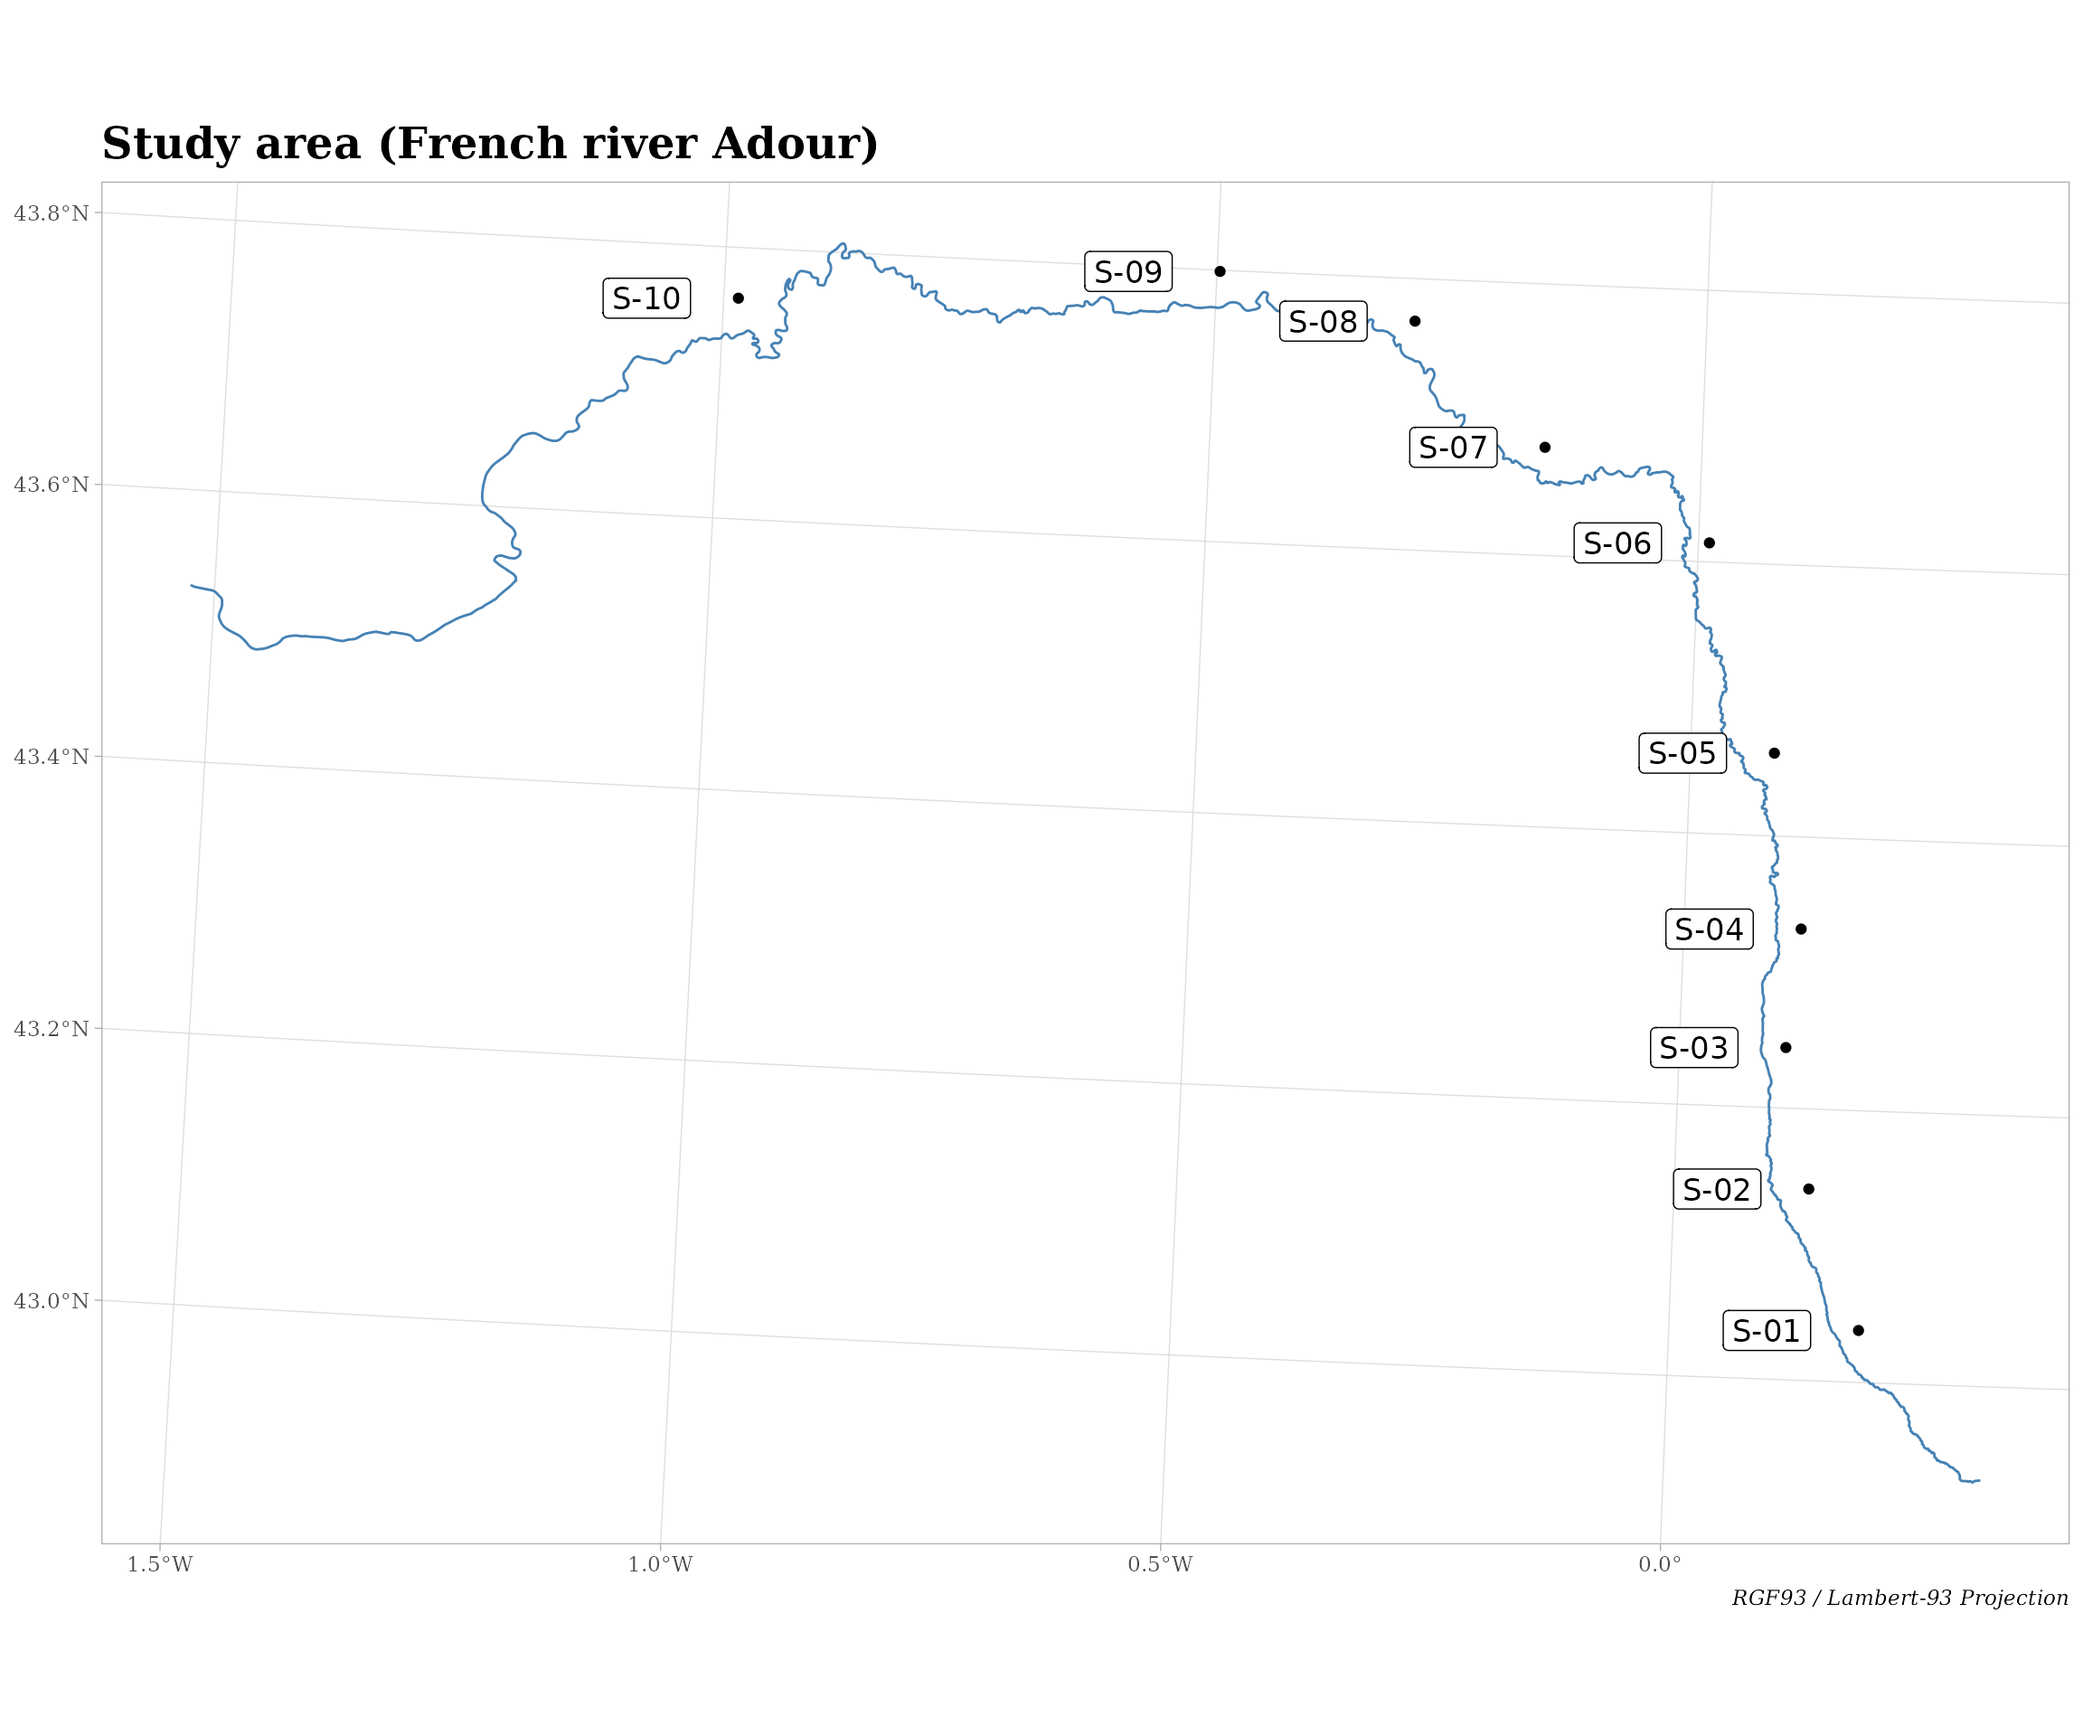
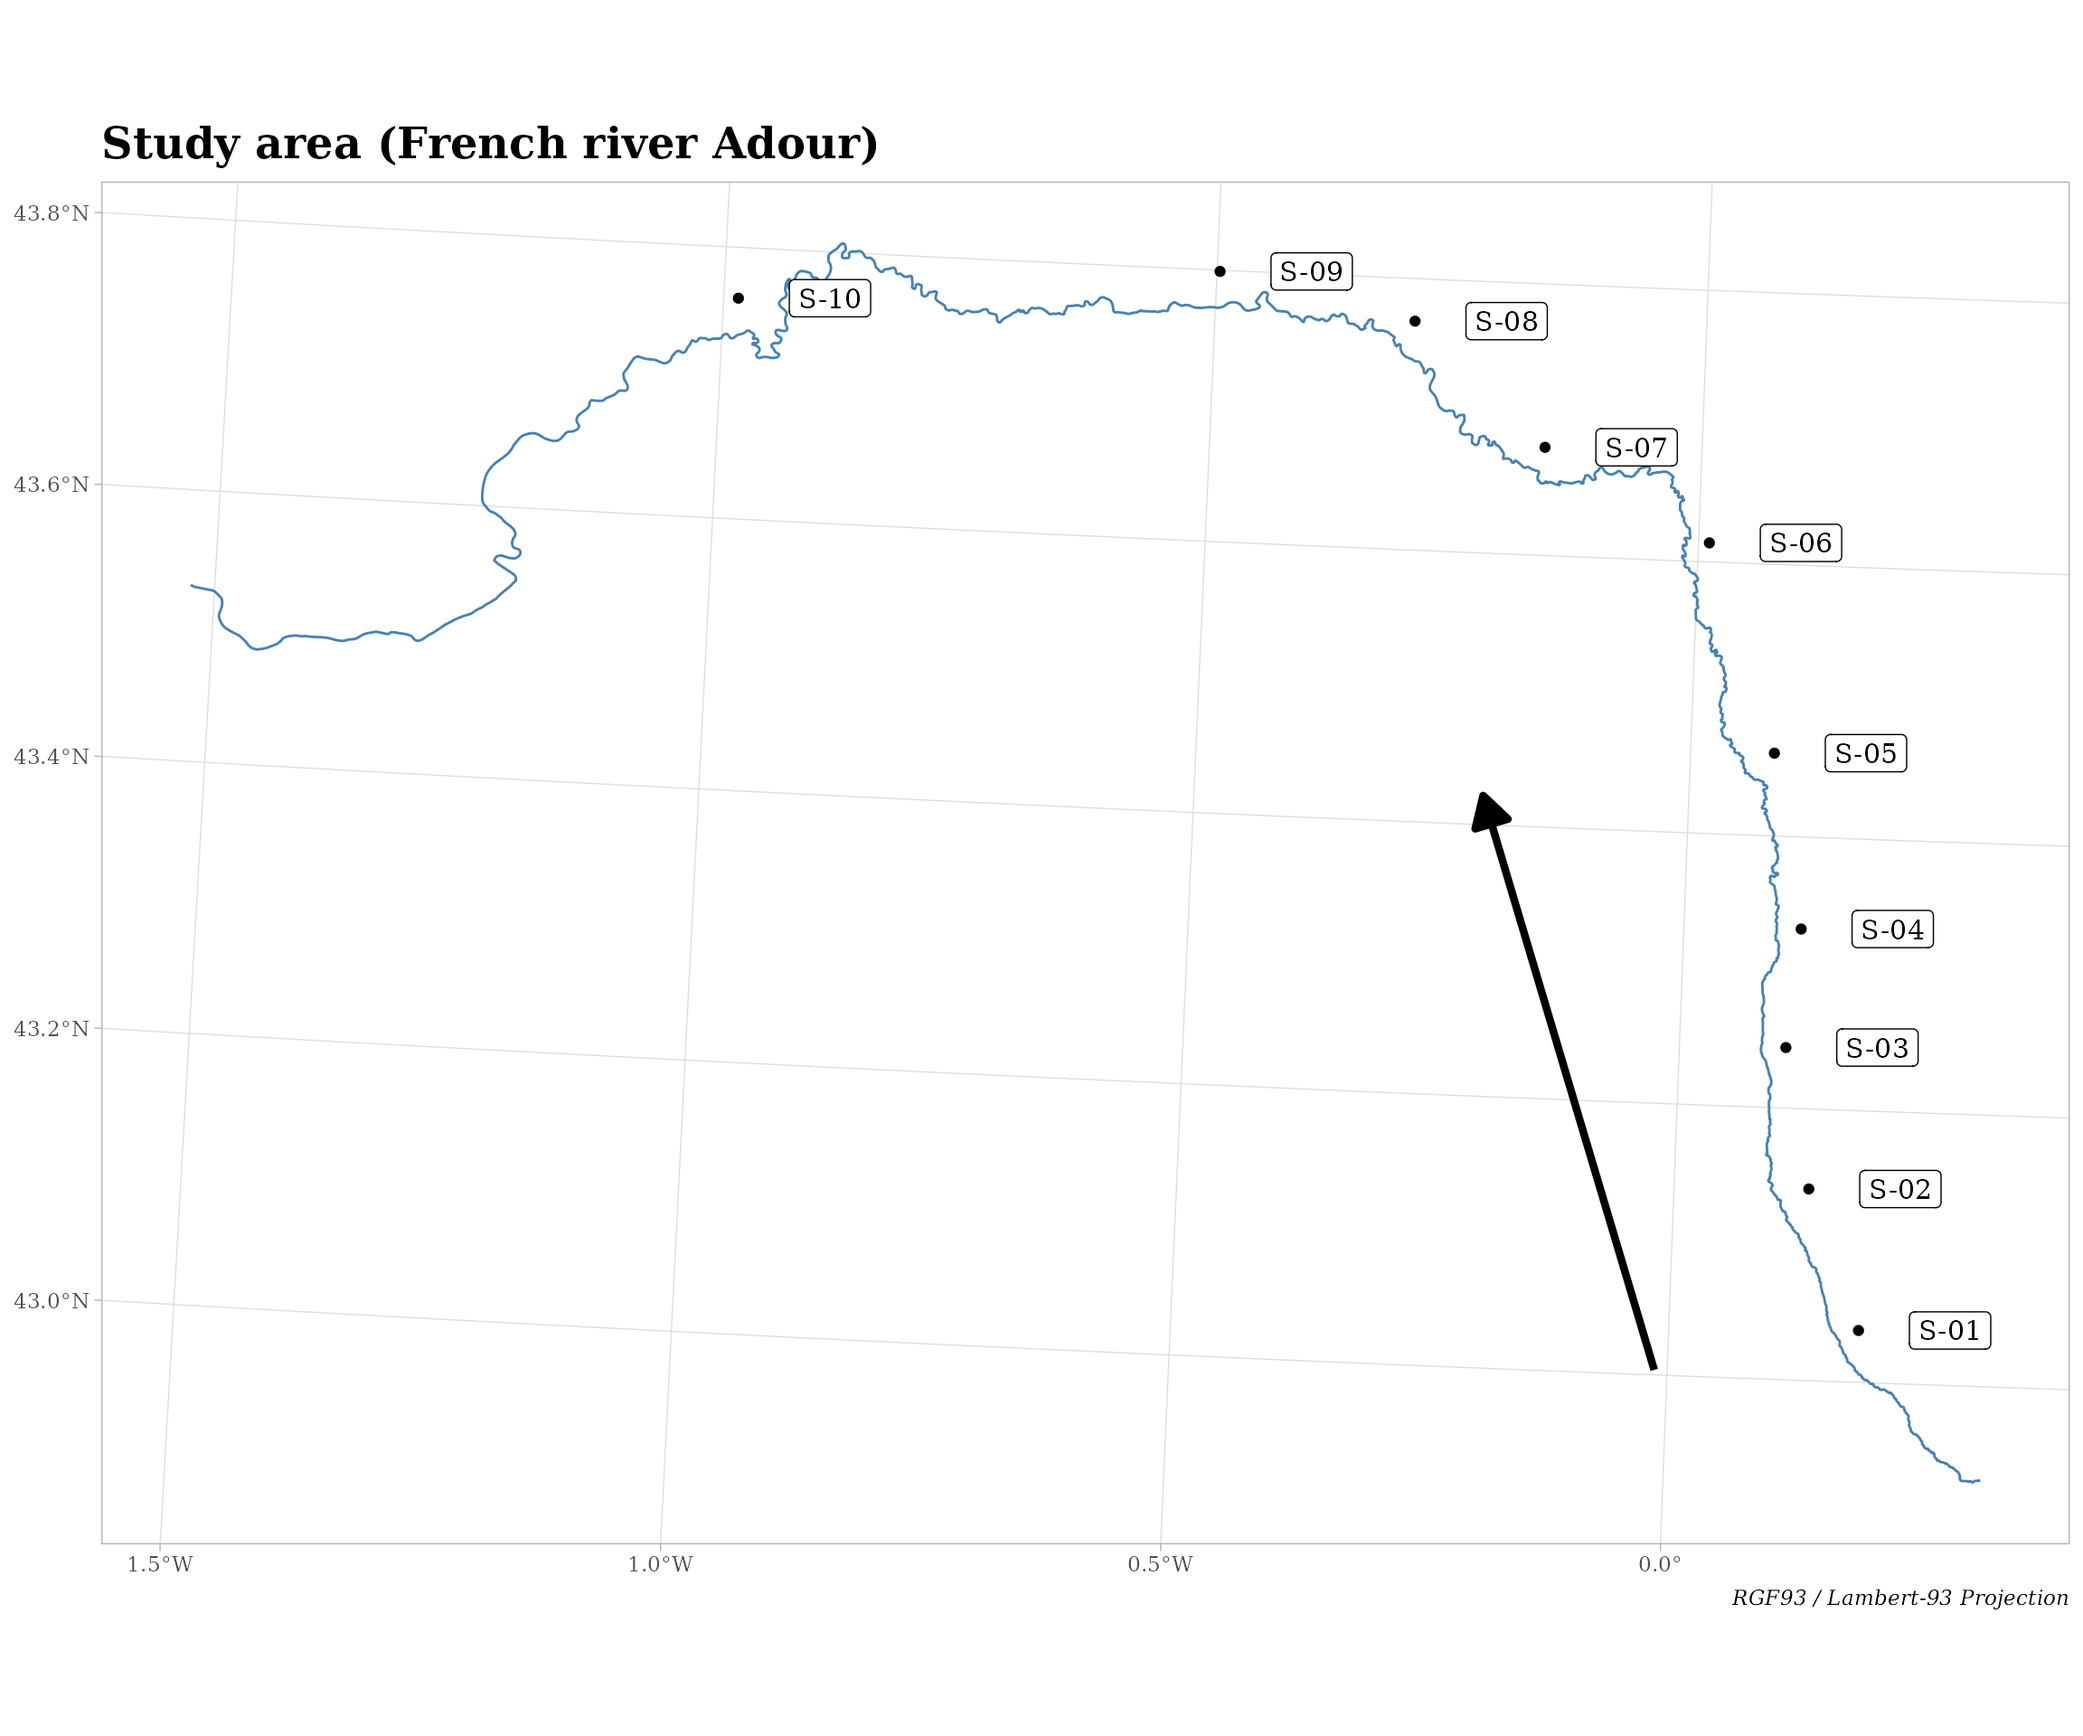
Built site for bridge: 0.0.0.9000@1e766ce

diff --git a/articles/bridge.html b/articles/bridge.html
@@ -138,9 +138,14 @@
 <p><br></p>
 <p>Let’s locate the Adour river of the France map.</p>
 <div class="sourceCode" id="cb5"><pre class="downlit sourceCode r">
-<code class="sourceCode R"><span><span class="fu"><a href="https://ggplot2.tidyverse.org/reference/ggplot.html" class="external-link">ggplot</a></span><span class="op">(</span>data <span class="op">=</span> <span class="va">france</span><span class="op">)</span> <span class="op">+</span></span>
+<code class="sourceCode R"><span><span class="co"># Get extent of Adour river ----</span></span>
+<span><span class="va">adour_extent</span> <span class="op">&lt;-</span> <span class="fu">sf</span><span class="fu">::</span><span class="fu"><a href="https://r-spatial.github.io/sf/reference/st_bbox.html" class="external-link">st_bbox</a></span><span class="op">(</span><span class="va">adour_river</span><span class="op">)</span></span>
+<span><span class="va">adour_extent</span> <span class="op">&lt;-</span> <span class="va">adour_extent</span> <span class="op">+</span> <span class="fu"><a href="https://rdrr.io/r/base/c.html" class="external-link">c</a></span><span class="op">(</span><span class="op">-</span><span class="fl">10000</span>, <span class="op">-</span><span class="fl">10000</span>, <span class="fl">10000</span>, <span class="fl">10000</span><span class="op">)</span></span>
+<span></span>
+<span><span class="fu"><a href="https://ggplot2.tidyverse.org/reference/ggplot.html" class="external-link">ggplot</a></span><span class="op">(</span>data <span class="op">=</span> <span class="va">france</span><span class="op">)</span> <span class="op">+</span></span>
 <span>  <span class="fu"><a href="https://ggplot2.tidyverse.org/reference/ggsf.html" class="external-link">geom_sf</a></span><span class="op">(</span>fill <span class="op">=</span> <span class="st">"lightgray"</span>, col <span class="op">=</span> <span class="st">"white"</span>, size <span class="op">=</span> <span class="fl">0.2</span><span class="op">)</span> <span class="op">+</span></span>
 <span>  <span class="fu"><a href="https://ggplot2.tidyverse.org/reference/ggsf.html" class="external-link">geom_sf</a></span><span class="op">(</span>data <span class="op">=</span> <span class="va">adour_river</span>, col <span class="op">=</span> <span class="st">"steelblue"</span><span class="op">)</span> <span class="op">+</span></span>
+<span>  <span class="fu"><a href="https://ggplot2.tidyverse.org/reference/ggsf.html" class="external-link">geom_sf</a></span><span class="op">(</span>data <span class="op">=</span> <span class="fu">sf</span><span class="fu">::</span><span class="fu"><a href="https://r-spatial.github.io/sf/reference/st_as_sfc.html" class="external-link">st_as_sfc</a></span><span class="op">(</span><span class="va">adour_extent</span><span class="op">)</span>, fill <span class="op">=</span> <span class="cn">NA</span>, size <span class="op">=</span> <span class="fl">0.3</span><span class="op">)</span> <span class="op">+</span></span>
 <span>  <span class="fu"><a href="https://ggplot2.tidyverse.org/reference/labs.html" class="external-link">labs</a></span><span class="op">(</span>title   <span class="op">=</span> <span class="st">"The French river Adour"</span>, </span>
 <span>       caption <span class="op">=</span> <span class="st">"RGF93 / Lambert-93 Projection"</span><span class="op">)</span> <span class="op">+</span></span>
 <span>  <span class="fu">custom_theme</span><span class="op">(</span><span class="op">)</span></span></code></pre></div>
@@ -198,11 +203,14 @@
 <code class="sourceCode R"><span><span class="fu"><a href="https://ggplot2.tidyverse.org/reference/ggplot.html" class="external-link">ggplot</a></span><span class="op">(</span>data <span class="op">=</span> <span class="va">adour_river</span><span class="op">)</span> <span class="op">+</span></span>
 <span>  <span class="fu"><a href="https://ggplot2.tidyverse.org/reference/ggsf.html" class="external-link">geom_sf</a></span><span class="op">(</span>col <span class="op">=</span> <span class="st">"steelblue"</span><span class="op">)</span> <span class="op">+</span></span>
 <span>  <span class="fu"><a href="https://ggplot2.tidyverse.org/reference/ggsf.html" class="external-link">geom_sf</a></span><span class="op">(</span>data <span class="op">=</span> <span class="va">adour_sites_sf</span>, shape <span class="op">=</span> <span class="fl">19</span><span class="op">)</span> <span class="op">+</span></span>
-<span>  <span class="fu">ggsflabel</span><span class="fu">::</span><span class="fu"><a href="https://yutannihilation.github.io/ggsflabel/reference/geom_sf_label.html" class="external-link">geom_sf_label</a></span><span class="op">(</span>data <span class="op">=</span> <span class="va">adour_sites_sf</span>, <span class="fu"><a href="https://ggplot2.tidyverse.org/reference/aes.html" class="external-link">aes</a></span><span class="op">(</span>label <span class="op">=</span> <span class="va">site</span><span class="op">)</span>, size <span class="op">=</span> <span class="fl">4.5</span>, </span>
-<span>                           nudge_x <span class="op">=</span> <span class="op">-</span><span class="fl">7500</span><span class="op">)</span> <span class="op">+</span> </span>
+<span>  <span class="fu"><a href="https://ggplot2.tidyverse.org/reference/geom_text.html" class="external-link">geom_label</a></span><span class="op">(</span>data <span class="op">=</span> <span class="va">adour_sites</span>, <span class="fu"><a href="https://ggplot2.tidyverse.org/reference/aes.html" class="external-link">aes</a></span><span class="op">(</span>x <span class="op">=</span> <span class="va">longitude</span>, y <span class="op">=</span> <span class="va">latitude</span>, label <span class="op">=</span> <span class="va">site</span><span class="op">)</span>, </span>
+<span>            size <span class="op">=</span> <span class="fl">4</span>, nudge_x <span class="op">=</span> <span class="fl">7500</span>, family <span class="op">=</span> <span class="st">"serif"</span><span class="op">)</span> <span class="op">+</span></span>
 <span>  <span class="fu"><a href="https://ggplot2.tidyverse.org/reference/labs.html" class="external-link">labs</a></span><span class="op">(</span>title   <span class="op">=</span> <span class="st">"Study area (French river Adour)"</span>, </span>
 <span>       caption <span class="op">=</span> <span class="st">"RGF93 / Lambert-93 Projection"</span><span class="op">)</span> <span class="op">+</span></span>
-<span>  <span class="fu">custom_theme</span><span class="op">(</span><span class="op">)</span></span></code></pre></div>
+<span>  <span class="fu">custom_theme</span><span class="op">(</span><span class="op">)</span> <span class="op">+</span></span>
+<span>  <span class="fu"><a href="https://ggplot2.tidyverse.org/reference/geom_segment.html" class="external-link">geom_segment</a></span><span class="op">(</span><span class="fu"><a href="https://ggplot2.tidyverse.org/reference/aes.html" class="external-link">aes</a></span><span class="op">(</span>x <span class="op">=</span> <span class="fl">454180</span>, xend <span class="op">=</span> <span class="fl">440170</span>, y <span class="op">=</span> <span class="fl">6216290</span>, yend <span class="op">=</span> <span class="fl">6263320</span><span class="op">)</span>, </span>
+<span>               arrow <span class="op">=</span> <span class="fu"><a href="https://rdrr.io/r/grid/arrow.html" class="external-link">arrow</a></span><span class="op">(</span>length <span class="op">=</span> <span class="fu"><a href="https://rdrr.io/r/grid/unit.html" class="external-link">unit</a></span><span class="op">(</span><span class="fl">0.5</span>, <span class="st">'cm'</span><span class="op">)</span>, type <span class="op">=</span> <span class="st">'closed'</span><span class="op">)</span>,</span>
+<span>               size  <span class="op">=</span> <span class="fl">1.5</span><span class="op">)</span></span></code></pre></div>
 <p><img src="bridge_files/figure-html/map-adour-sites-1.png" width="80%" style="display: block; margin: auto;"></p>
 </div>
 </div>
